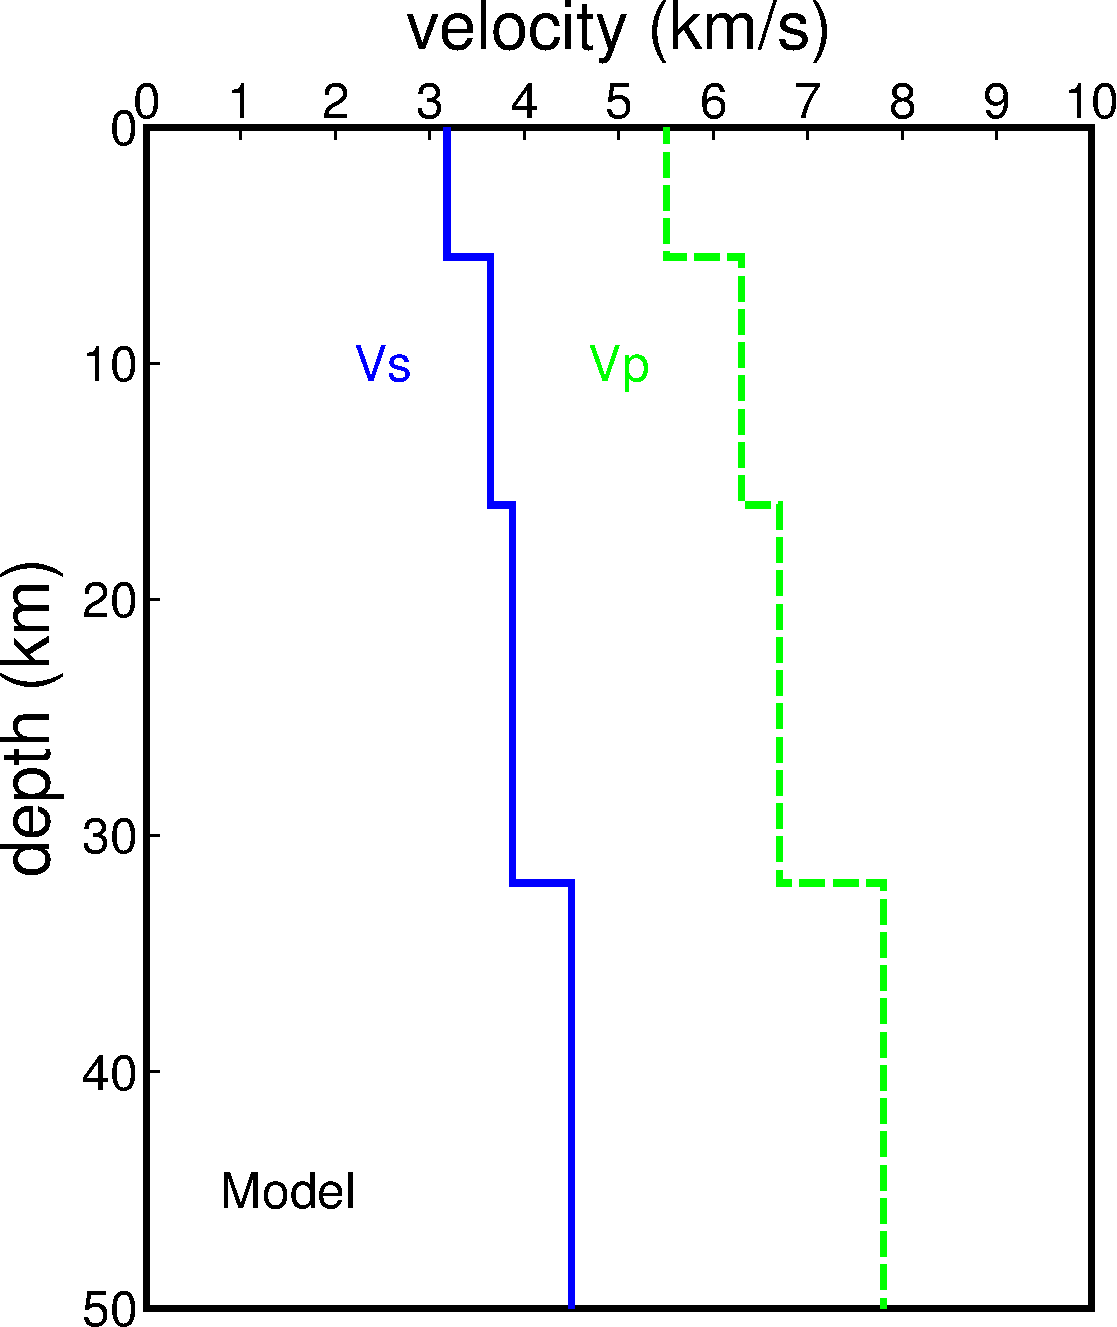
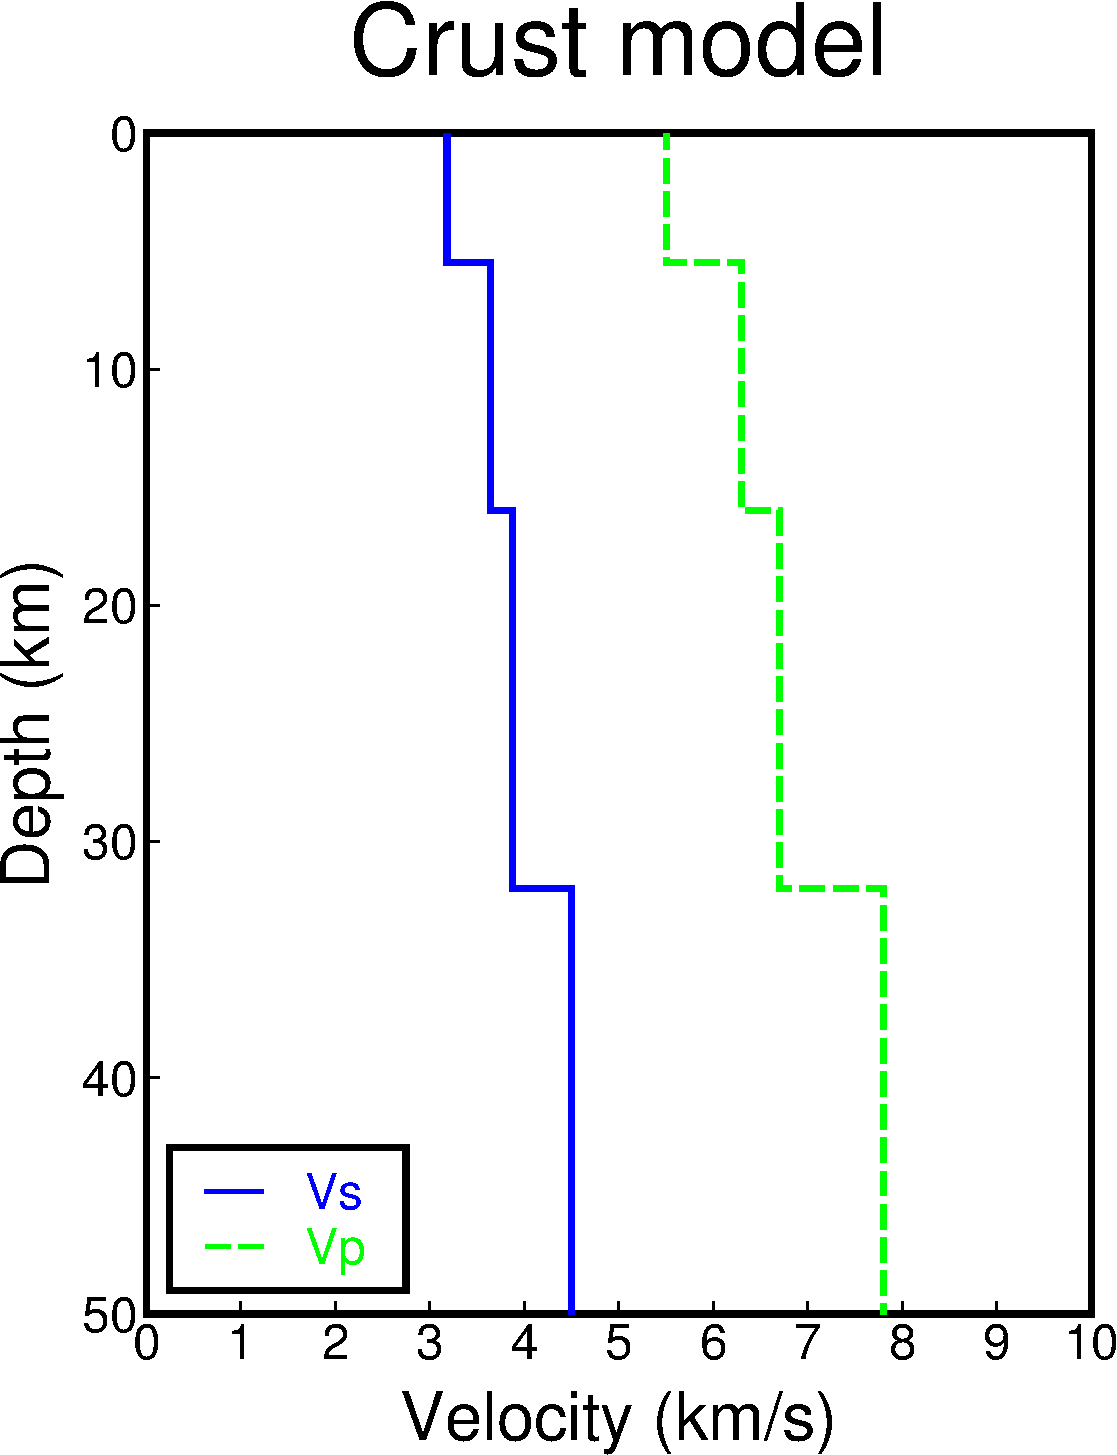
update

diff --git a/content/example/ex020/index.md b/content/example/ex020/index.md
@@ -8,14 +8,15 @@ images:
 commands:
     - psbasemap
     - psxy
-    - pstext
+    - pslegend
 ---
 {{% notice info %}}
 示例数据:
 [速度模型数据](/example/ex020/model.txt)
 {{% /notice %}}
 
-本文展示了如何绘制地壳速度模型图。
+本文展示了如何绘制地壳速度模型图。示例数据分为 6 列，分别为 地层厚度，S波速度，P波速度，密度，S波Q值和P波Q值，
+绘图脚本只用到了前 3 列数据。
 
 Bash 绘图脚本如下:
 
